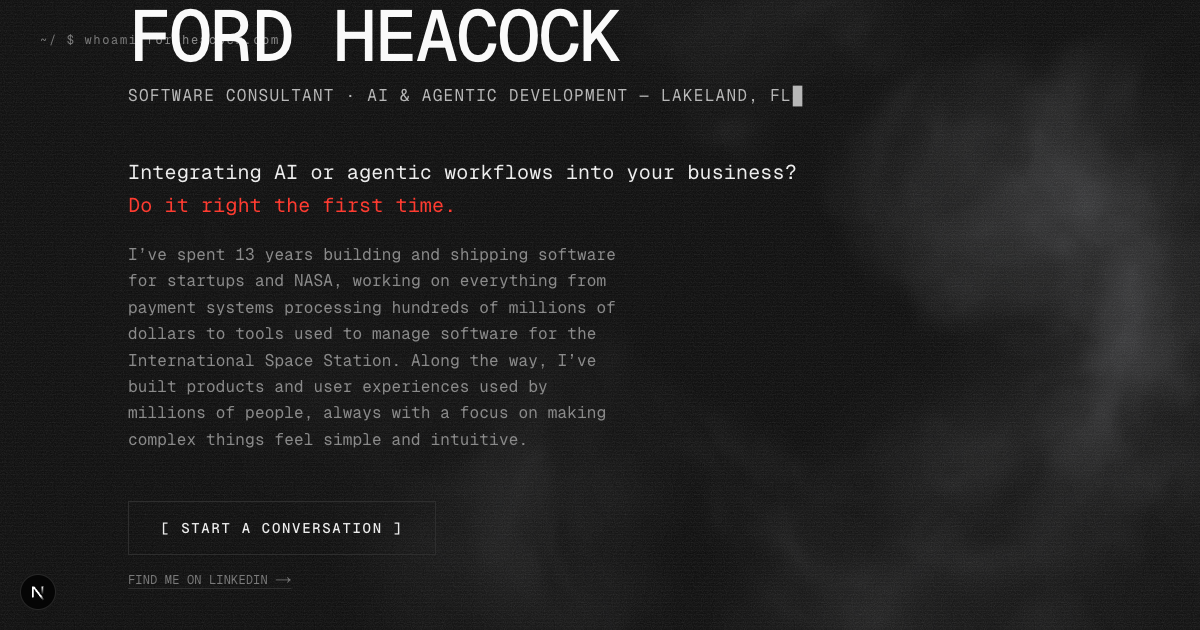
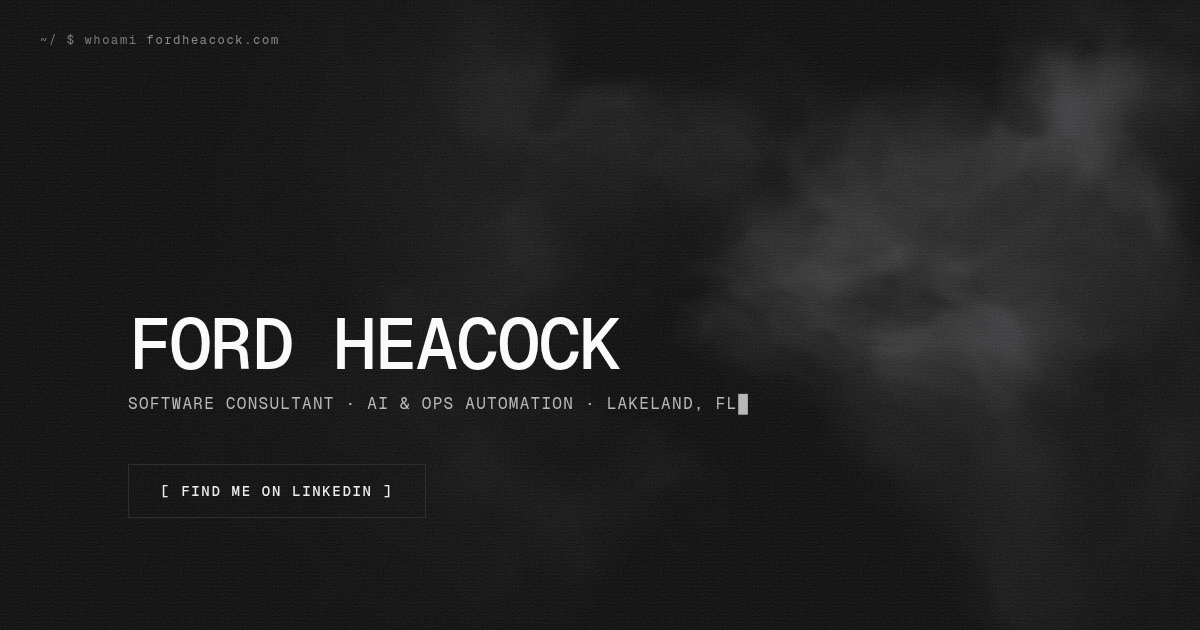
Reduce fordheacock.com to a single LinkedIn landing page. (#5)
Keep the phosphor hero and make LinkedIn the only action. Other paths redirect home.

diff --git a/lib/content.ts b/lib/content.ts
@@ -1,119 +1,10 @@
 /**
- * Page copy. The accent line renders in signal red;
- * keep it the sharpest line on the hero.
- *
- * Published prices are locked. Do not drift them to match a draft.
+ * Page copy. The role line sits under the name.
  */
-import { introSubject, mailto, site } from "./site";
-
-export const nav = [
-  { href: "#fit", label: "fit" },
-  { href: "#process", label: "process" },
-  { href: "#packages", label: "packages" },
-  { href: "#proof", label: "proof" },
-  { href: "#about", label: "about" },
-  { href: "#contact", label: "contact" },
-] as const;
+import { site } from "./site";
 
 export const hero = {
   name: "FORD HEACOCK",
   role: "SOFTWARE CONSULTANT · AI & OPS AUTOMATION · LAKELAND, FL",
-  /** Accent line renders red. */
-  pitchLead: "Still chasing follow-ups by hand?",
-  pitchAccent: "I find the chore that costs you money, fix the process, then automate it.",
-  sub: "On the tools you already run.",
-  cta: { label: "BOOK A FIT CALL", href: mailto(introSubject) },
-  ctaNote: "Free, 20-30 min",
-  sublink: { label: "FIND ME ON LINKEDIN →", href: site.linkedin },
-};
-
-export const fit = {
-  id: "fit",
-  kicker: "01  /  FIT",
-  title: "Who this is for",
-  body: "Operators and founders at small businesses drowning in follow-ups and spreadsheet ops. Wholesale, DTC, field services, small teams. Whatever stack you already use is fine.",
-  aside:
-    "One workflow for a small team. You own it.",
-};
-
-export const process = {
-  id: "process",
-  kicker: "02  /  PROCESS",
-  title: "How we work",
-  lead: "A free 20-30 minute fit call comes first. It is there to see whether the problem is real, and whether I am the right person to fix it.",
-  steps: [
-    {
-      kicker: "01",
-      name: "Discovery",
-      price: "$1,000-$1,500",
-      body: "Walk through where time and money leak. Map the process, rank the fixes, and leave with a fixed Pilot quote.",
-    },
-    {
-      kicker: "02",
-      name: "Pilot",
-      price: "$4,500-$7,500",
-      body: "One production workflow you own. Build, error handling, short docs, a Loom, and a live handoff. n8n, Sheets, Gmail, or whatever you already run. Done when your team can run it without you.",
-    },
-    {
-      kicker: "03",
-      name: "Retain",
-      price: "$1,200-$2,000/mo",
-      body: "Keep the Pilot healthy. Small changes, and one modest new flow a month when the first is paying for itself. Priority when something breaks.",
-    },
-  ],
-};
-
-export const packages = {
-  id: "packages",
-  kicker: "03  /  PACKAGES",
-  title: "Packages",
-  lead: "The exact quote comes after Discovery, or after the fit call if the problem is already crisp. The pilot stays a fixed price.",
-  fitCall: "Fit call is free, 20-30 minutes.",
-  items: [
-    {
-      name: "Discovery / Ops Audit",
-      price: "$1,000-$1,500",
-      duration: "about 1 week",
-      body: "Walk through where time and money leak. Short process map, 3-5 ranked fixes, what to do yourself vs with me, fixed Pilot quote. 100% of the fee credits toward Pilot if you start within 30 days.",
-    },
-    {
-      name: "Pilot",
-      price: "$4,500-$7,500",
-      duration: "2-4 weeks",
-      body: "One production workflow you own. Build, error handling, short docs, a Loom, live handoff. n8n, Sheets, Gmail, or whatever you already run. Done when your team can run it without me.",
-    },
-    {
-      name: "Retain",
-      price: "$1,200-$2,000/mo",
-      duration: "month to month",
-      body: "Keep the Pilot healthy, small changes, and one modest new flow a month when the first one is paying for itself. Priority when something breaks.",
-    },
-  ],
-};
-
-export const proof = {
-  id: "proof",
-  kicker: "04  /  PROOF",
-  title: "Wholesale follow-up that does not drop the ball",
-  body: "Due rows in a sheet send templated emails; a real reply stops the chase and pings the owner. They saw the demo and moved ahead.",
-  facts: [
-    { label: "STACK", value: "Google Sheets · n8n · Gmail" },
-    { label: "RESULT", value: "They saw a demo and moved ahead." },
-  ],
-};
-
-export const about = {
-  id: "about",
-  kicker: "05  /  ABOUT",
-  title: "About",
-  bio: "I’ve spent 13 years building and shipping software for startups and NASA, working on everything from payment systems processing hundreds of millions of dollars to tools used to manage software for the International Space Station. Along the way, I’ve built products and user experiences used by millions of people.",
-  now: "Now I help Florida operators automate the work that fills their week.",
-};
-
-export const contact = {
-  id: "contact",
-  kicker: "06  /  CONTACT",
-  title: "Book a free fit call.",
-  subject: introSubject,
-  cta: { label: "BOOK A FIT CALL", href: mailto(introSubject) },
+  cta: { label: "FIND ME ON LINKEDIN", href: site.linkedin },
 };

diff --git a/components/ascii-hero.tsx b/components/ascii-hero.tsx
@@ -1,40 +1,22 @@
-import { hero, nav } from "@/lib/content";
+import { hero } from "@/lib/content";
 import { BracketLink } from "@/components/bracket-link";
 import { NebulaField } from "@/components/nebula-field";
 
 /**
  * Hero: crisp mono copy over a slow nebula smoke cloud.
- * The canvas is decorative — all content is real, semantic HTML.
+ * The canvas is decorative. All content is real, semantic HTML.
  */
 export function AsciiHero() {
   return (
     <header className="relative flex min-h-svh flex-col overflow-hidden">
-      {/* Terminal prompt header — in-flow so it never collides with the copy below */}
       <div className="relative z-10 px-6 pt-6 md:px-10 md:pt-8">
-        <div className="flex flex-col gap-3 sm:flex-row sm:items-baseline sm:justify-between">
-          <p className="text-xs tracking-[0.14em] text-graphite">
-            ~/ $ whoami <span className="text-granite">fordheacock.com</span>
-          </p>
-          <nav aria-label="On this page">
-            <ul className="flex flex-wrap gap-x-4 gap-y-1 text-[11px] tracking-[0.14em] text-graphite md:text-xs">
-              {nav.map((item) => (
-                <li key={item.href}>
-                  <a
-                    href={item.href}
-                    className="transition-colors duration-300 hover:text-bone focus-visible:outline focus-visible:outline-1 focus-visible:outline-offset-4 focus-visible:outline-stone"
-                  >
-                    {item.label}
-                  </a>
-                </li>
-              ))}
-            </ul>
-          </nav>
-        </div>
+        <p className="text-xs tracking-[0.14em] text-graphite">
+          ~/ $ whoami <span className="text-granite">fordheacock.com</span>
+        </p>
       </div>
 
       <NebulaField />
 
-      {/* Copy — anchored low on all viewports */}
       <div className="relative z-10 flex flex-1 items-end">
         <div className="w-full">
           <div className="mx-auto w-full max-w-5xl px-6 pb-10 md:px-10 md:pb-28">
@@ -46,28 +28,10 @@ export function AsciiHero() {
               <span className="block-cursor" aria-hidden />
             </p>
 
-            <p className="mt-8 max-w-[58ch] text-base leading-[1.6] text-bone md:mt-12 md:text-xl md:leading-[1.65]">
-              {hero.pitchLead}
-              <br />
-              <span className="text-signal">{hero.pitchAccent}</span>
-            </p>
-            <p className="mt-4 max-w-[52ch] text-xs leading-[1.6] text-granite md:mt-5 md:text-base md:leading-[1.65]">
-              {hero.sub}
-            </p>
-
             <div className="mt-8 md:mt-12">
-              <BracketLink href={hero.cta.href}>{hero.cta.label}</BracketLink>
-              <p className="mt-4 text-xs leading-relaxed text-graphite">{hero.ctaNote}</p>
-              <p className="mt-3 text-xs leading-relaxed">
-                <a
-                  href={hero.sublink.href}
-                  target="_blank"
-                  rel="noreferrer"
-                  className="text-graphite underline decoration-ash underline-offset-4 transition-colors duration-300 hover:text-signal hover:decoration-signal focus-visible:outline focus-visible:outline-1 focus-visible:outline-offset-4 focus-visible:outline-stone"
-                >
-                  {hero.sublink.label}
-                </a>
-              </p>
+              <BracketLink href={hero.cta.href} external>
+                {hero.cta.label}
+              </BracketLink>
             </div>
           </div>
         </div>

diff --git a/lib/site.ts b/lib/site.ts
@@ -1,19 +1,11 @@
-/** Single source of truth for identity + contact. Edit here, site-wide. */
+/** Single source of truth for identity. */
 export const site = {
   name: "Ford Heacock",
   role: "Software Consultant · AI & Ops Automation",
   location: "Lakeland, FL",
-  /** Primary contact channel. */
-  email: "ford@fordheacock.com",
-  linkedin: "https://www.linkedin.com/in/ford-heacock/",
-  /** Set after domain purchase. Used for metadata + OG absolute URLs. */
+  linkedin: "https://www.linkedin.com/in/ford-heacock",
+  /** Used for metadata and OG absolute URLs. */
   url: "https://fordheacock.com",
-  tagline: "AI and ops automation for SMB operators. One workflow that pays for itself.",
   description:
-    "Ford Heacock builds AI and ops automation for small businesses in Lakeland, FL. One production workflow you own, then the next. 13 years shipping software for startups and NASA.",
+    "Ford Heacock is a software consultant for AI and ops automation in Lakeland, FL.",
 } as const;
-
-export const introSubject = "AI consulting - intro call";
-
-export const mailto = (subject: string = introSubject) =>
-  `mailto:${site.email}?subject=${encodeURIComponent(subject)}`;

diff --git a/components/bracket-link.tsx b/components/bracket-link.tsx
@@ -4,13 +4,16 @@ import type { ReactNode } from "react";
 export function BracketLink({
   href,
   children,
+  external = false,
 }: {
   href: string;
   children: ReactNode;
+  external?: boolean;
 }) {
   return (
     <a
       href={href}
+      {...(external ? { target: "_blank", rel: "noopener noreferrer" } : {})}
       className="inline-block border border-ash px-6 py-3 text-xs font-medium tracking-[0.12em] text-bone transition-colors duration-300 hover:border-signal hover:bg-signal hover:text-void focus-visible:outline focus-visible:outline-1 focus-visible:outline-offset-4 focus-visible:outline-stone md:px-8 md:py-4 md:text-sm"
     >
       [ {children} ]

diff --git a/app/layout.tsx b/app/layout.tsx
@@ -41,22 +41,17 @@ export const viewport: Viewport = {
 
 const jsonLd = {
   "@context": "https://schema.org",
-  "@type": "ProfessionalService",
-  name: `${site.name} · ${site.role}`,
+  "@type": "Person",
+  name: site.name,
+  jobTitle: site.role,
   description,
   url: site.url,
-  areaServed: "Central Florida",
+  sameAs: [site.linkedin],
   address: {
     "@type": "PostalAddress",
     addressLocality: "Lakeland",
     addressRegion: "FL",
     addressCountry: "US",
-  },
-  founder: {
-    "@type": "Person",
-    name: site.name,
-    jobTitle: site.role,
-    sameAs: [site.linkedin],
   },
 };
 

diff --git a/app/page.tsx b/app/page.tsx
@@ -1,11 +1,9 @@
 import { AsciiHero } from "@/components/ascii-hero";
-import { LandingSections } from "@/components/landing-sections";
 
 export default function Home() {
   return (
     <main>
       <AsciiHero />
-      <LandingSections />
     </main>
   );
 }

diff --git a/app/[...slug]/page.tsx b/app/[...slug]/page.tsx
@@ -1,0 +1,5 @@
+import { redirect } from "next/navigation";
+
+export default function UnknownRoute() {
+  redirect("/");
+}
